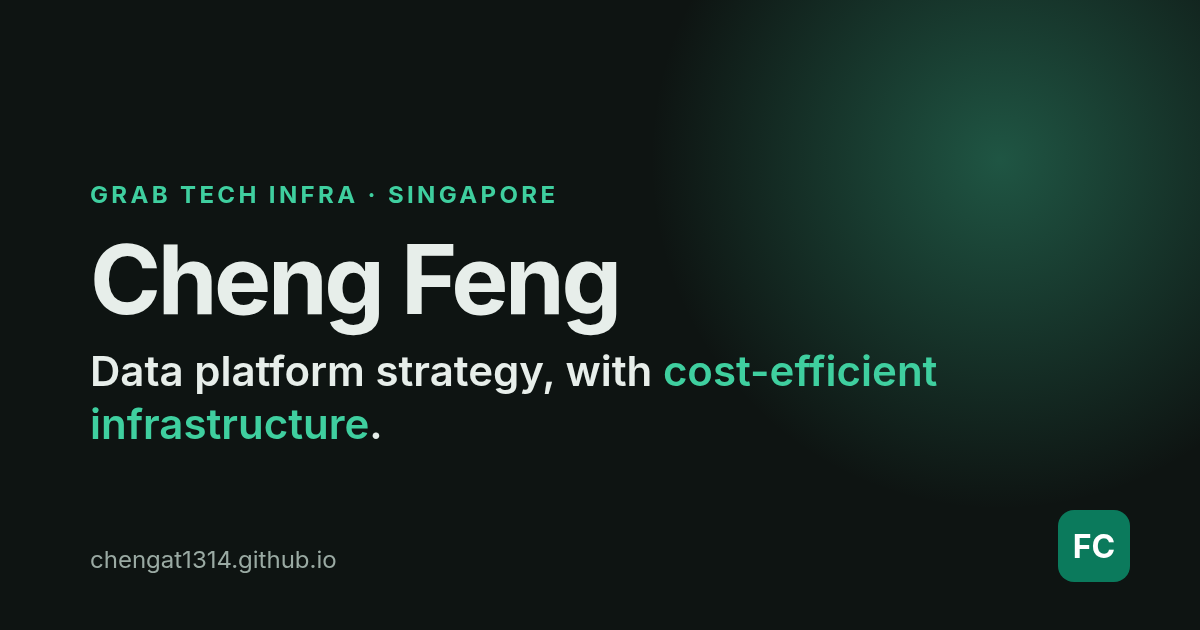
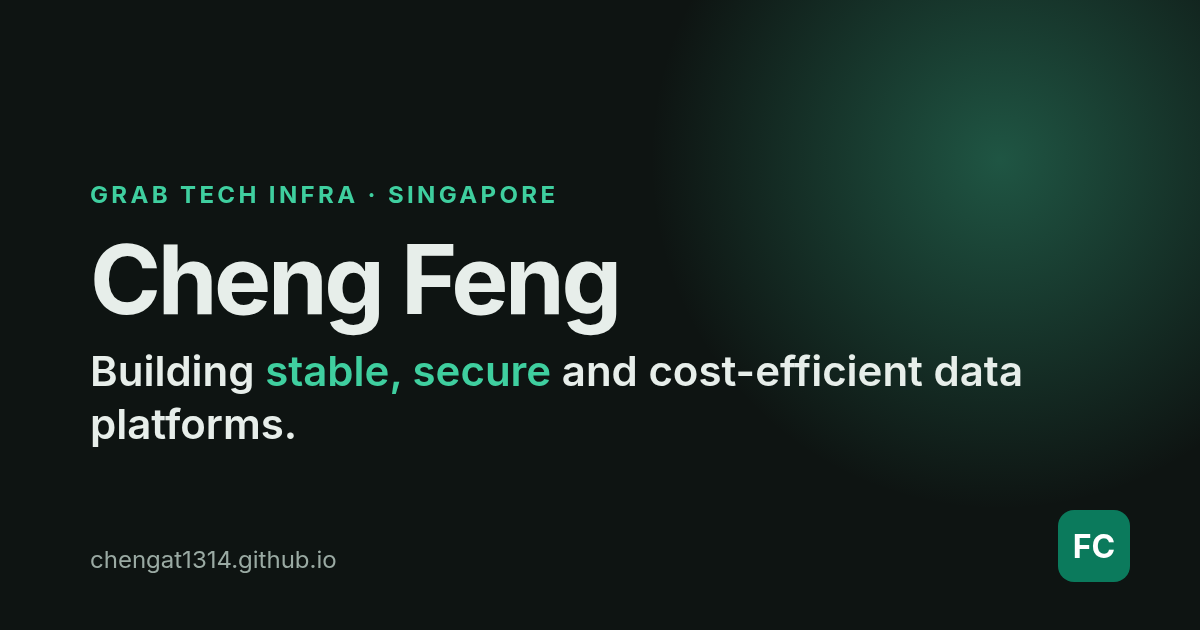
Highlight stability and security

Changed region(s): [[0.0617, 0.5429, 0.8633, 0.7238]]

diff --git a/index.html b/index.html
@@ -3,8 +3,8 @@
 <head>
   <meta charset="utf-8">
   <meta name="viewport" content="width=device-width, initial-scale=1">
-  <title>Cheng Feng: Data platform strategy, with cost-efficient infrastructure</title>
-  <meta name="description" content="Cheng Feng is an engineering leader on Grab Tech Infra in Singapore, working on data platform strategy, data mesh, data reliability, real-time ingestion and cost-efficient infrastructure.">
+  <title>Cheng Feng: Building stable, secure and cost-efficient data platforms</title>
+  <meta name="description" content="Cheng Feng is an engineering leader on Grab Tech Infra in Singapore, building stable, secure and cost-efficient data platforms: data reliability, data security and governance, data mesh and real-time ingestion.">
   <meta name="author" content="Cheng Feng">
   <link rel="canonical" href="https://chengat1314.github.io/">
   <meta name="color-scheme" content="light dark">
@@ -14,8 +14,8 @@
 
   <meta property="og:type" content="profile">
   <meta property="og:site_name" content="Cheng Feng">
-  <meta property="og:title" content="Cheng Feng: Data platform strategy, with cost-efficient infrastructure">
-  <meta property="og:description" content="Engineering leader on Grab Tech Infra in Singapore. Data Made Easy: data mesh, data reliability, real-time ingestion and LLMs for data governance.">
+  <meta property="og:title" content="Cheng Feng: Building stable, secure and cost-efficient data platforms">
+  <meta property="og:description" content="Engineering leader on Grab Tech Infra in Singapore. Data Made Easy: building stable, secure data platforms with data reliability, data security and governance, data mesh and real-time ingestion.">
   <meta property="og:url" content="https://chengat1314.github.io/">
   <meta property="og:image" content="https://chengat1314.github.io/og.png">
   <meta property="og:image:width" content="1200">
@@ -23,8 +23,8 @@
   <meta property="profile:first_name" content="Feng">
   <meta property="profile:last_name" content="Cheng">
   <meta name="twitter:card" content="summary_large_image">
-  <meta name="twitter:title" content="Cheng Feng: Data platform strategy, with cost-efficient infrastructure">
-  <meta name="twitter:description" content="Engineering leader on Grab Tech Infra in Singapore. Data Made Easy.">
+  <meta name="twitter:title" content="Cheng Feng: Building stable, secure and cost-efficient data platforms">
+  <meta name="twitter:description" content="Engineering leader on Grab Tech Infra in Singapore. Data Made Easy: stable, secure and cost-efficient data platforms.">
   <meta name="twitter:image" content="https://chengat1314.github.io/og.png">
 
   <script type="application/ld+json">
@@ -40,7 +40,7 @@
     "alumniOf": {"@type": "CollegeOrUniversity", "name": "National University of Singapore"},
     "address": {"@type": "PostalAddress", "addressCountry": "SG"},
     "knowsLanguage": ["English", "Chinese"],
-    "knowsAbout": ["Data platforms", "Data mesh", "Data reliability", "Real-time data ingestion", "Change data capture", "OLAP engines", "LLMs for data governance", "Cost-efficient cloud infrastructure"],
+    "knowsAbout": ["Data platforms", "Data platform reliability", "Data reliability", "Data security", "Data governance", "Data quality", "Data contracts", "Metadata management", "Data mesh", "Real-time data ingestion", "Change data capture", "OLAP engines", "LLMs for data governance", "Cost-efficient cloud infrastructure"],
     "sameAs": [
       "https://www.linkedin.com/in/chengfengatgrab/",
       "https://engineering.grab.com/authors#feng.cheng",
@@ -80,7 +80,7 @@
         <div class="hero-text">
         <p class="eyebrow">Grab Tech Infra · Singapore</p>
         <h1>Cheng Feng</h1>
-        <p class="lede">Data platform strategy, with <span class="accent">cost-efficient infrastructure</span>.</p>
+        <p class="lede">Building <span class="accent">stable, secure</span> and cost-efficient data platforms.</p>
         <p class="sub">I'm an engineering leader on Grab's Tech Infra data platform. My motto is <strong>“Data Made Easy!”</strong> I work on platforms that make data reliable, discoverable and simple to use at scale.</p>
         <div class="cta">
           <a class="btn primary" href="https://www.linkedin.com/in/chengfengatgrab/" rel="me noopener" target="_blank">
@@ -103,7 +103,7 @@
           <li><span>6</span>co-authored Grab Tech Blog posts</li>
           <li><span>Featured</span>in Data Engineering Weekly</li>
           <li><span>NUS</span>alumnus</li>
-          <li><span lang="zh">EN · 中文</span>English and Chinese</li>
+          <li><span>95%+</span>of data production issues (DPIs) raised automatically · <a href="https://engineering.grab.com/data-mesh-at-grab-part-three" rel="noopener" target="_blank">Data Mesh Part III</a></li>
         </ul>
       </div>
     </section>
@@ -114,7 +114,7 @@
         <div class="prose">
           <blockquote class="motto"><p>Demolish the maze, embrace the agentic world!</p></blockquote>
           <p>I work on Grab's data platform within Tech Infra in Singapore. The goal behind my work is simple: <em>data made easy</em>. Teams across the company should be able to produce, trust, find and use data without fighting the platform.</p>
-          <p>With my colleagues, I've written publicly about how Grab approaches data SLAs, real-time ingestion, LLM-powered data classification, conversational data discovery and data mesh. The latest piece covers how more than 95% of data production incidents are now raised automatically and resolved 6x faster.</p>
+          <p>With my colleagues, I've written publicly about how Grab approaches data SLAs, real-time ingestion, LLM-powered data classification, conversational data discovery and data mesh. The latest piece covers how more than 95% of data production issues (DPIs) are now raised automatically, and automated DPIs are resolved 6x faster.</p>
           <p>I'm increasingly focused on the economics of data infrastructure: picking the right engines and architectures so the platform stays reliable <em>and</em> cost-efficient as it grows.</p>
           <p>I'm an alumnus of the National University of Singapore and I work in English and Chinese.</p>
         </div>
@@ -125,35 +125,39 @@
       <div class="container">
         <h2>Focus areas</h2>
         <div class="grid focus-grid">
-          <article class="card">
+          <article class="card highlight">
             <div class="icon" aria-hidden="true">01</div>
-            <h3>Data platform strategy</h3>
-            <p>Shaping a platform that makes data easy to produce, govern and consume across a large organisation.</p>
+            <h3>Platform reliability</h3>
+            <p>Stable data by design: data SLAs, data contracts, certification of trusted data products, and automated detection of data production issues (DPIs). More than 95% of DPIs are raised automatically, and automated DPIs are resolved 6x faster.</p>
+            <p class="card-links"><a href="https://engineering.grab.com/data-first-sla-always" rel="noopener" target="_blank">SLAs →</a> <a href="https://engineering.grab.com/data-mesh-part-2-the-foundational-tools-behind-certification" rel="noopener" target="_blank">Certification →</a> <a href="https://engineering.grab.com/data-mesh-at-grab-part-three" rel="noopener" target="_blank">DPIs →</a></p>
           </article>
-          <article class="card">
+          <article class="card highlight">
             <div class="icon" aria-hidden="true">02</div>
-            <h3>Data mesh &amp; data reliability</h3>
-            <p>Domain ownership, data certification and automated incident management, from SLAs to data production incidents.</p>
+            <h3>Data security &amp; governance</h3>
+            <p>Protecting data at scale: LLM-powered classification of sensitive data for governance, a metadata governance suite, and data quality monitoring and APIs.</p>
+            <p class="card-links"><a href="https://engineering.grab.com/llm-powered-data-classification" rel="noopener" target="_blank">Classification →</a> <a href="https://engineering.grab.com/data-mesh-part-2-the-foundational-tools-behind-certification" rel="noopener" target="_blank">Metadata &amp; quality →</a></p>
           </article>
           <article class="card">
             <div class="icon" aria-hidden="true">03</div>
-            <h3>Real-time ingestion &amp; CDC</h3>
-            <p>Moving data from operational systems into the platform quickly and reliably with streaming and change data capture.</p>
+            <h3>Data platform strategy &amp; data mesh</h3>
+            <p>Shaping a self-service platform that makes data easy to produce, govern and consume, with domain ownership through data mesh.</p>
           </article>
           <article class="card">
             <div class="icon" aria-hidden="true">04</div>
-            <h3>LLMs for governance &amp; discovery</h3>
-            <p>Using LLMs to classify data for governance and to help people find the right data through conversation.</p>
+            <h3>Real-time ingestion &amp; CDC</h3>
+            <p>Moving data from operational systems into the platform quickly and reliably on Kafka infrastructure, with streaming and change data capture.</p>
+            <p class="card-links"><a href="https://engineering.grab.com/real-time-data-ingestion" rel="noopener" target="_blank">Real-time ingestion →</a></p>
           </article>
           <article class="card">
             <div class="icon" aria-hidden="true">05</div>
-            <h3>OLAP engine choices</h3>
-            <p>Matching query engines to workloads. I've written on LinkedIn about choosing StarRocks over Trino.</p>
+            <h3>LLMs for data discovery</h3>
+            <p>Helping people find the right data through conversation, where they already work.</p>
+            <p class="card-links"><a href="https://engineering.grab.com/hubble-data-discovery" rel="noopener" target="_blank">Conversational discovery →</a></p>
           </article>
-          <article class="card highlight">
+          <article class="card">
             <div class="icon" aria-hidden="true">06</div>
-            <h3>Cost-efficient cloud infrastructure</h3>
-            <p>Designing data infrastructure that scales without runaway spend, with the right engines and architectures for each workload.</p>
+            <h3>Cost-efficient infrastructure</h3>
+            <p>Designing data infrastructure that scales without runaway spend, matching engines such as Spark, Trino, StarRocks and Pinot to each workload.</p>
           </article>
         </div>
       </div>
@@ -194,7 +198,7 @@
           <a class="post card featured" href="https://engineering.grab.com/data-mesh-at-grab-part-three" rel="noopener" target="_blank">
             <time datetime="2026-08">Aug 2026</time>
             <h3>Data Mesh at Grab, Part III</h3>
-            <p>More than 95% of data production incidents are raised automatically and resolved 6x faster.</p>
+            <p>More than 95% of data production issues (DPIs) are raised automatically, and automated DPIs are resolved 6x faster.</p>
             <span class="badge">Featured in Data Engineering Weekly</span>
           </a>
           <a class="post card" href="https://engineering.grab.com/data-mesh-part-2-the-foundational-tools-behind-certification" rel="noopener" target="_blank">

diff --git a/styles.css b/styles.css
@@ -147,6 +147,9 @@ p { margin: 0 0 1em; }
   width: 40px; height: 40px; border-radius: 10px; display: grid; place-items: center; margin-bottom: 14px;
   background: var(--accent-soft); color: var(--accent); font-weight: 700; font-size: .85rem; letter-spacing: .02em;
 }
+.card-links { margin-top: 12px !important; display: flex; flex-wrap: wrap; gap: 6px 16px; }
+.card-links a { font-weight: 600; text-decoration: none; font-size: .93rem; }
+.facts a { font-weight: 600; text-decoration: none; white-space: nowrap; }
 .card.highlight { border-color: color-mix(in srgb, var(--accent) 45%, var(--border)); }
 .tag {
   display: inline-block; margin-top: 14px !important; padding: 3px 10px; border-radius: 999px;
@@ -236,4 +239,9 @@ p { margin: 0 0 1em; }
 @media print {
   .site-header, .cta, .skip-link { display: none; }
   .section.alt { background: none; }
+}
+
+@media (max-width: 960px) and (min-width: 621px) {
+  .nav ul { gap: 0; }
+  .nav ul a { padding: 6px 7px; font-size: .88rem; }
 }

diff --git a/README.md b/README.md
@@ -1,6 +1,6 @@
 # chengat1314.github.io
 
-Personal site for **Cheng Feng**: *Data platform strategy, with cost-efficient infrastructure.*
+Personal site for **Cheng Feng**: *Building stable, secure and cost-efficient data platforms.*
 
 Plain HTML + CSS, no build step. Light/dark mode follows the system setting.
 
